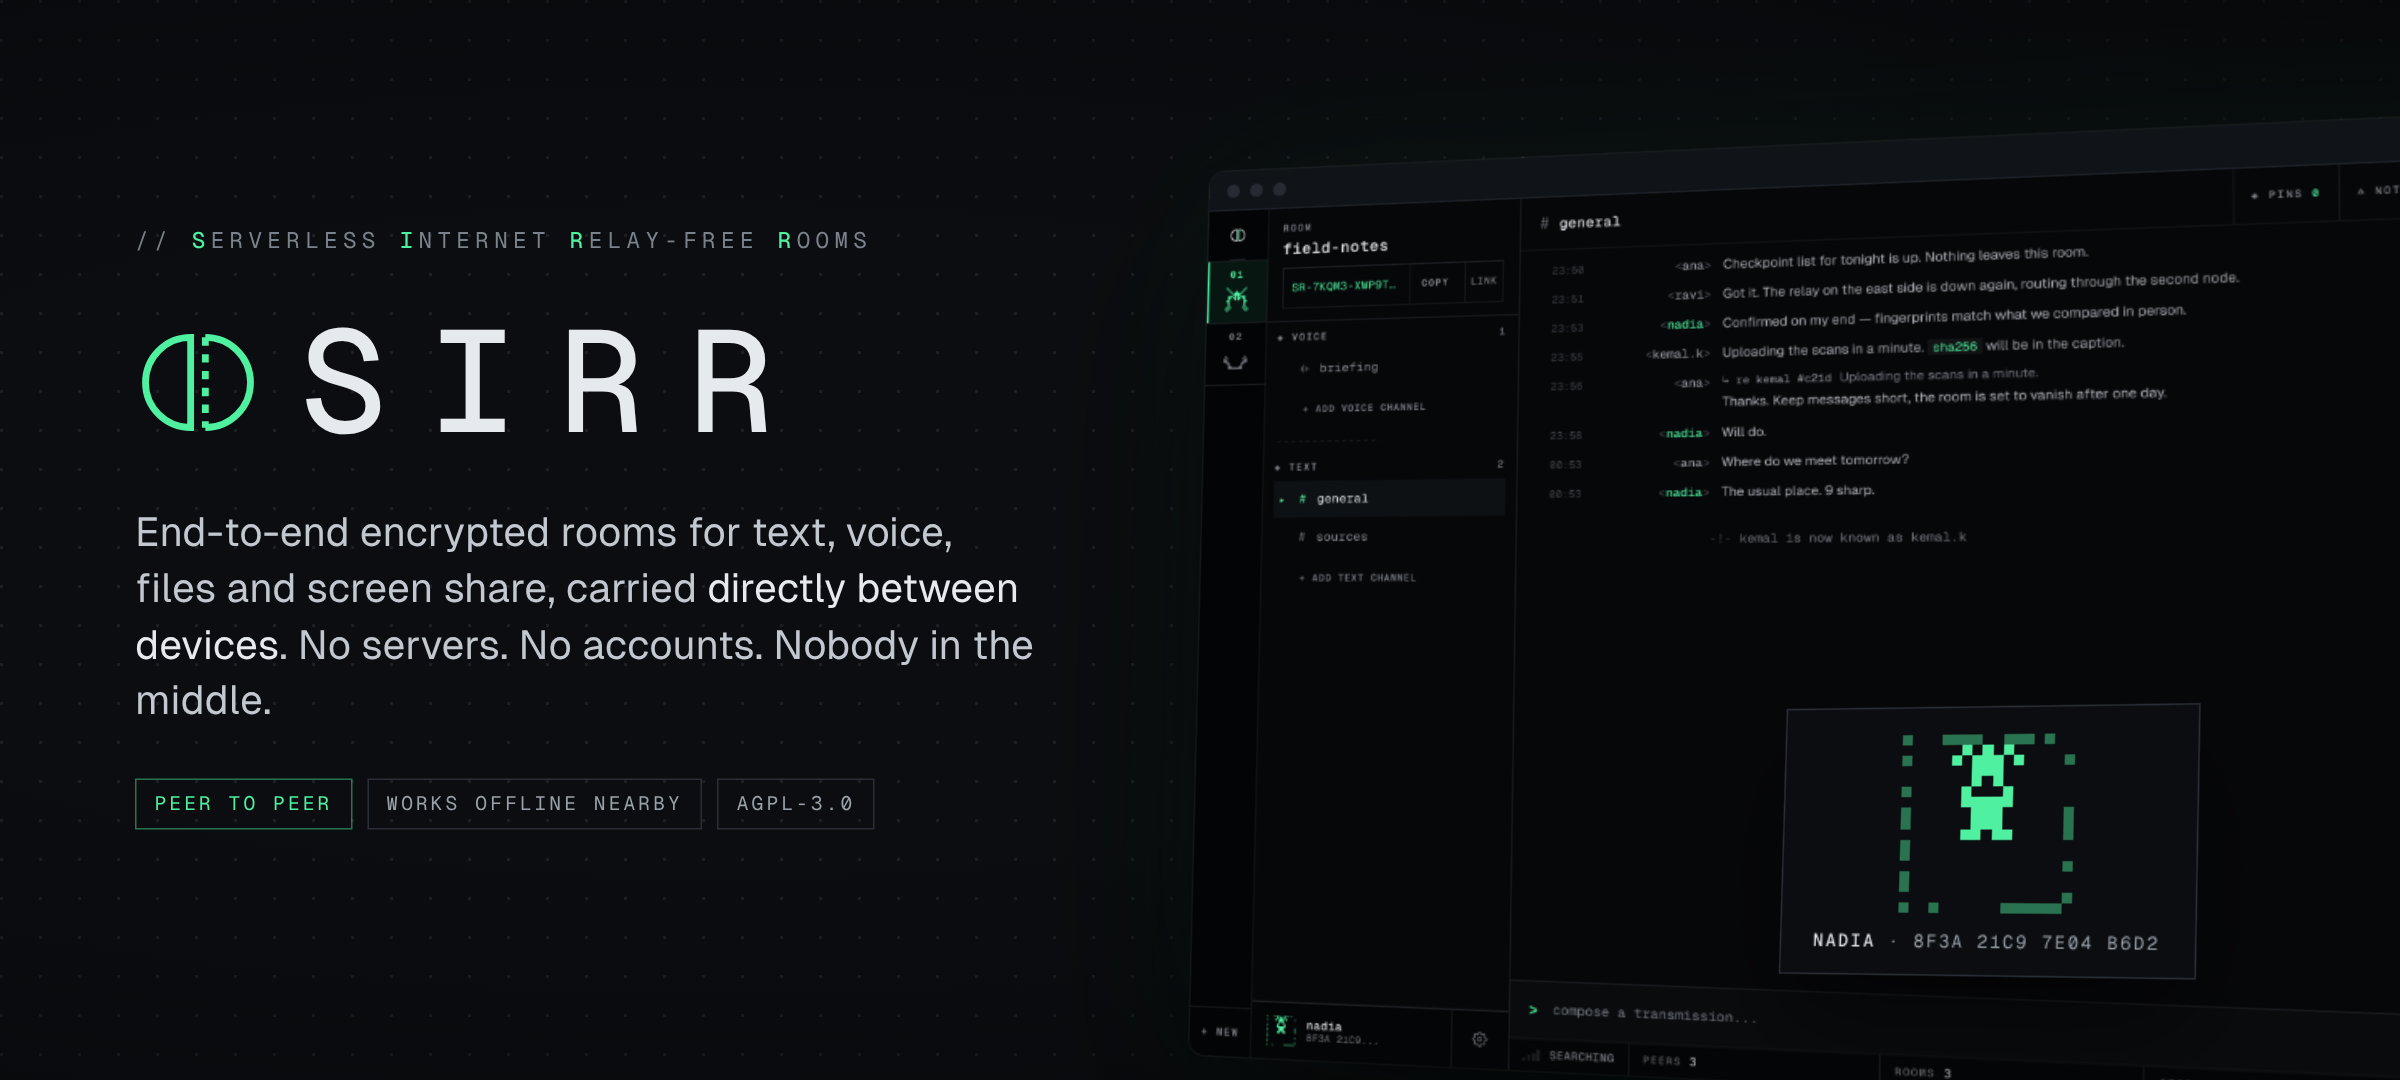
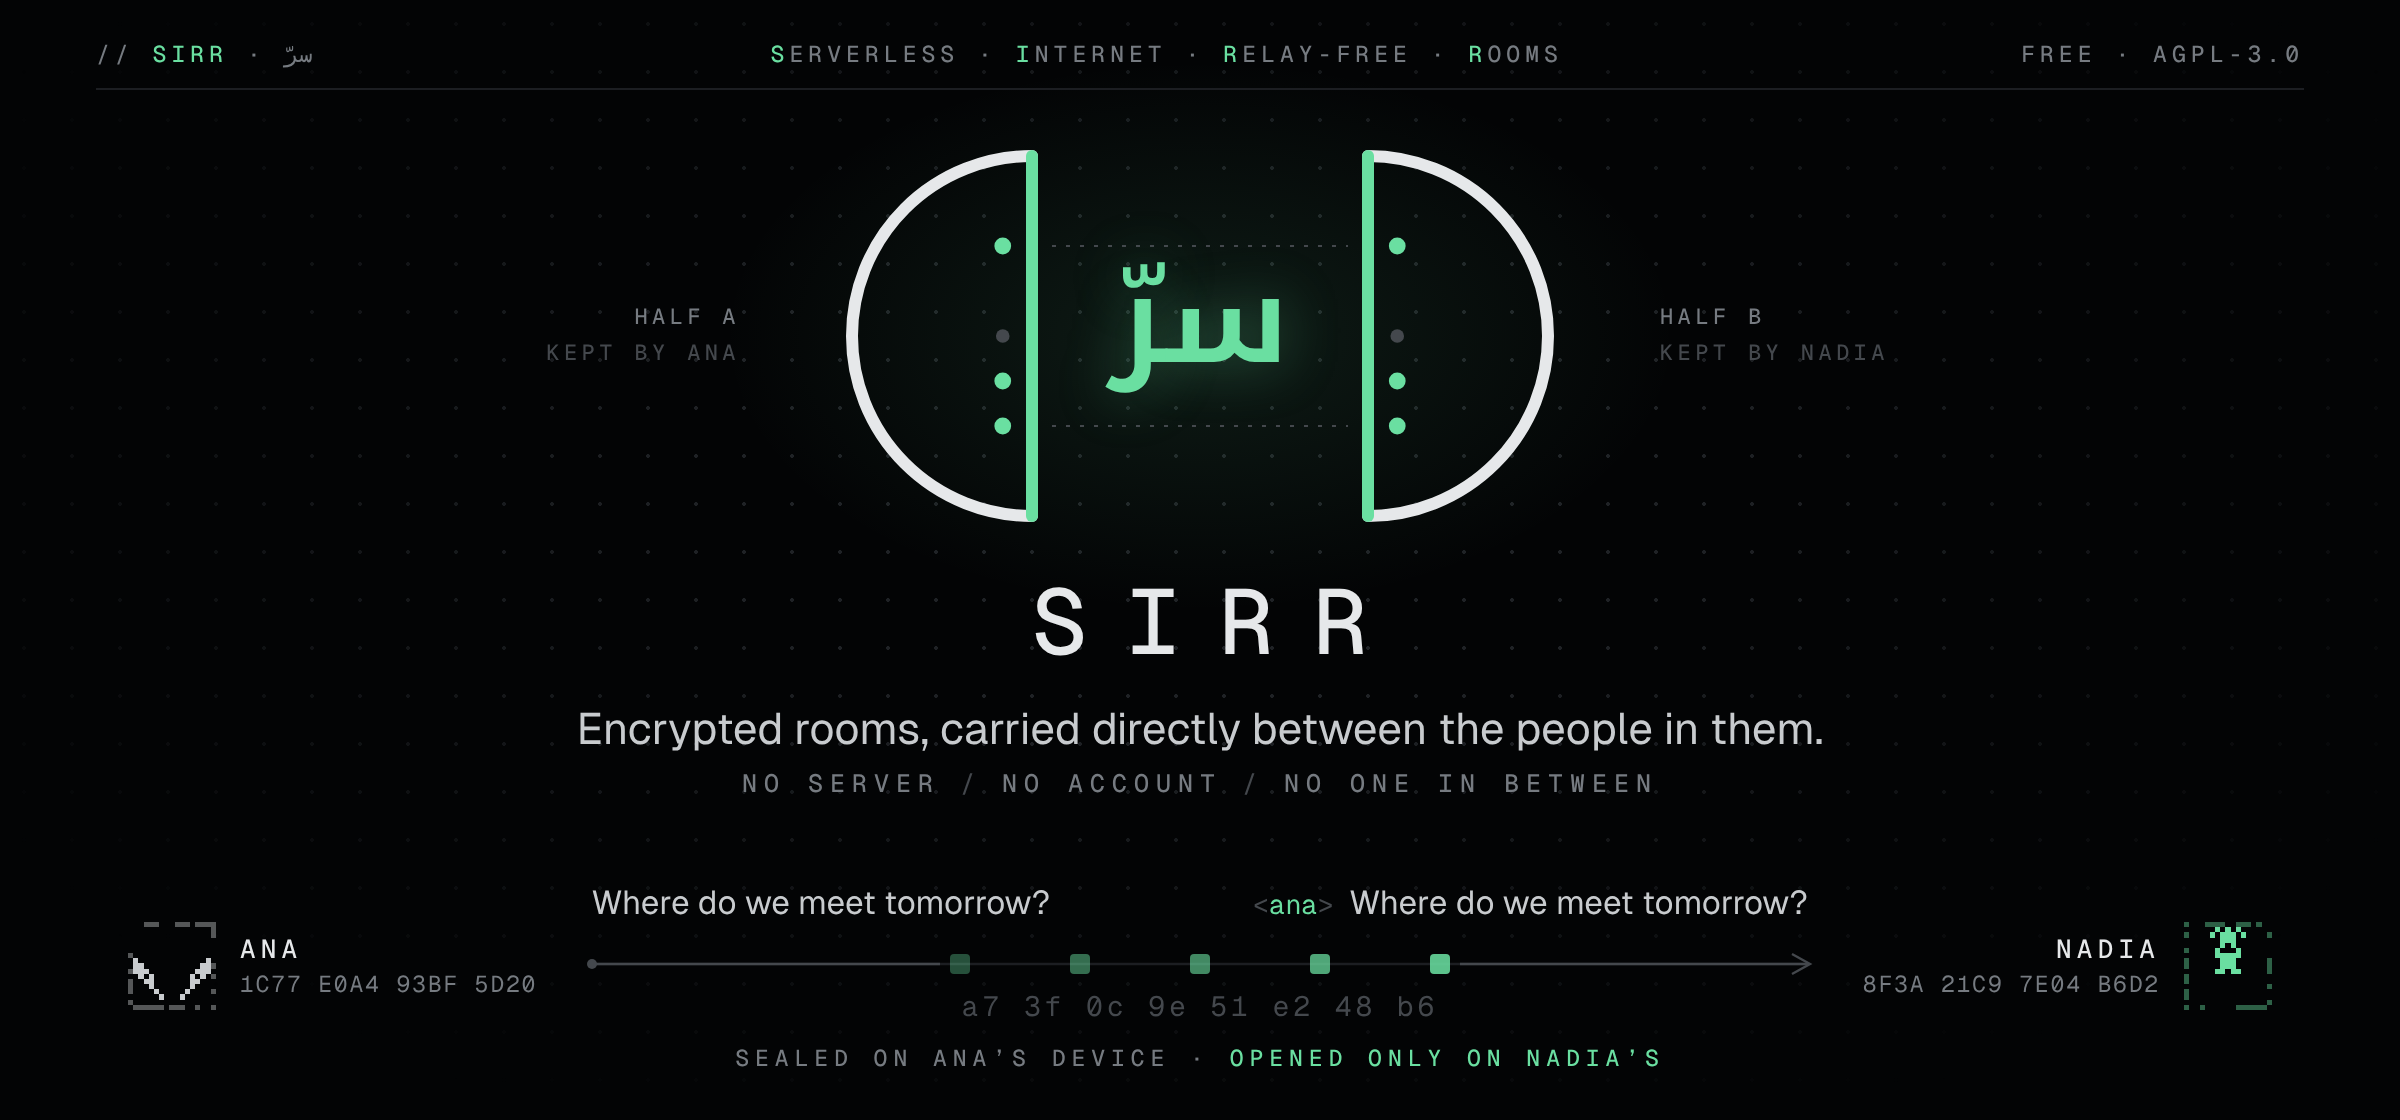
README: new hero, download buttons with live counts

diff --git a/README.md b/README.md
@@ -1,4 +1,24 @@
-<p align="center"><img src="docs/media/hero.png" alt="Sirr - serverless, end-to-end encrypted rooms"></p>
+<p align="center"><img src="docs/media/hero.png" alt="Sirr: a token broken in two. A secret kept between two people, sealed on one device and opened only on the other"></p>
+
+<p align="center">
+  <a href="https://github.com/CRTnoise/sirr/releases/latest"><img src="https://img.shields.io/github/v/release/CRTnoise/sirr?style=flat-square&label=latest&labelColor=0b0d10&color=2fbf7a" alt="Latest release"></a>
+  <a href="https://github.com/CRTnoise/sirr/releases"><img src="https://img.shields.io/github/downloads/CRTnoise/sirr/total?style=flat-square&label=total%20downloads&labelColor=0b0d10&color=2fbf7a" alt="Total downloads"></a>
+  <a href="LICENSE"><img src="https://img.shields.io/badge/license-AGPL--3.0-3a3f48?style=flat-square&labelColor=0b0d10" alt="AGPL-3.0"></a>
+</p>
+
+<!-- Download links name this release's files: on a new release, replace 1.2.0 below with the new version. -->
+<table align="center">
+<tr>
+<td align="center"><a href="https://github.com/CRTnoise/sirr/releases/latest/download/Sirr-Setup-1.2.0.exe"><img src="docs/media/dl-win-setup.png" width="250" alt="Download Sirr for Windows (installer)"></a><br><img src="https://img.shields.io/github/downloads/CRTnoise/sirr/latest/Sirr-Setup-1.2.0.exe?style=flat-square&label=downloads&labelColor=0b0d10&color=2fbf7a" alt="Downloads of Sirr-Setup-1.2.0.exe"></td>
+<td align="center"><a href="https://github.com/CRTnoise/sirr/releases/latest/download/Sirr-1.2.0-portable.exe"><img src="docs/media/dl-win-portable.png" width="250" alt="Download Sirr for Windows (portable)"></a><br><img src="https://img.shields.io/github/downloads/CRTnoise/sirr/latest/Sirr-1.2.0-portable.exe?style=flat-square&label=downloads&labelColor=0b0d10&color=2fbf7a" alt="Downloads of Sirr-1.2.0-portable.exe"></td>
+</tr>
+<tr>
+<td align="center"><a href="https://github.com/CRTnoise/sirr/releases/latest/download/Sirr-1.2.0-x86_64.AppImage"><img src="docs/media/dl-linux-appimage.png" width="250" alt="Download Sirr for Linux (AppImage)"></a><br><img src="https://img.shields.io/github/downloads/CRTnoise/sirr/latest/Sirr-1.2.0-x86_64.AppImage?style=flat-square&label=downloads&labelColor=0b0d10&color=2fbf7a" alt="Downloads of Sirr-1.2.0-x86_64.AppImage"></td>
+<td align="center"><a href="https://github.com/CRTnoise/sirr/releases/latest/download/Sirr-1.2.0-amd64.deb"><img src="docs/media/dl-linux-deb.png" width="250" alt="Download Sirr for Debian and Ubuntu (.deb)"></a><br><img src="https://img.shields.io/github/downloads/CRTnoise/sirr/latest/Sirr-1.2.0-amd64.deb?style=flat-square&label=downloads&labelColor=0b0d10&color=2fbf7a" alt="Downloads of Sirr-1.2.0-amd64.deb"></td>
+</tr>
+</table>
+
+<p align="center"><sub>Free, no account. Builds aren't code-signed yet: check the file against <code>SHA256SUMS.txt</code> on the <a href="https://github.com/CRTnoise/sirr/releases/latest">release page</a> · older versions under <a href="https://github.com/CRTnoise/sirr/releases">Releases</a> · or <a href="#from-source">build from source</a>.</sub></p>
 
 # Sirr
 
@@ -72,7 +92,14 @@ The full threat model, the protocol and the list of known limitations are in [SE
 
 ## Install
 
-CI builds installers for every tagged version, with a `SHA256SUMS.txt`. Builds are not code-signed yet: verify the checksum before running.
+Download from the buttons at the top, or any version from [Releases](https://github.com/CRTnoise/sirr/releases): a Windows installer and portable `.exe`, a Linux AppImage and a `.deb`, each with `SHA256SUMS.txt`. Builds are not code-signed yet, so verify the checksum before running:
+
+```sh
+sha256sum -c SHA256SUMS.txt --ignore-missing     # Linux
+certutil -hashfile Sirr-Setup-1.2.0.exe SHA256    # Windows: compare with SHA256SUMS.txt
+```
+
+On Linux: `chmod +x Sirr-*.AppImage` and run it, or `sudo apt install ./Sirr-*-amd64.deb`.
 
 ### From source
 
